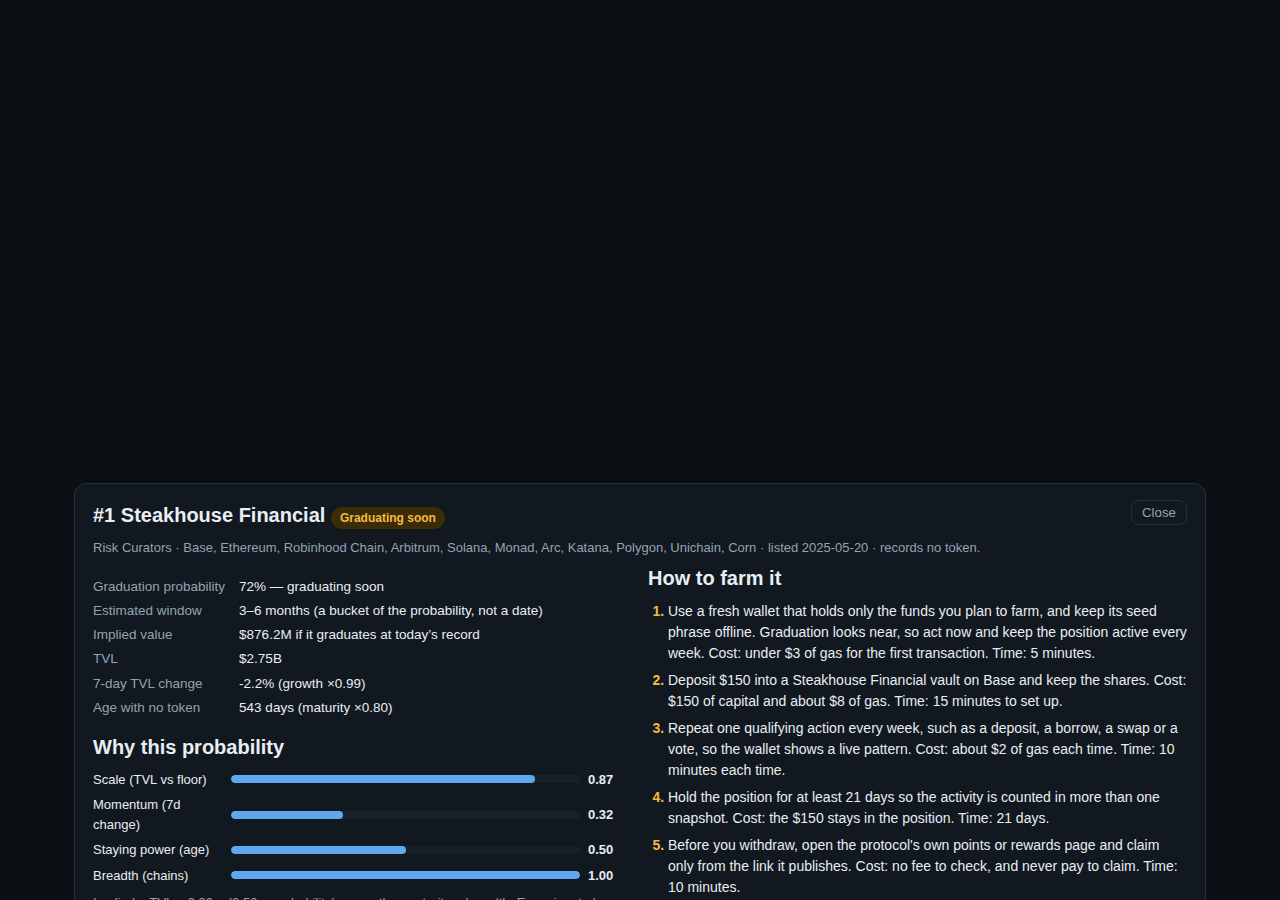
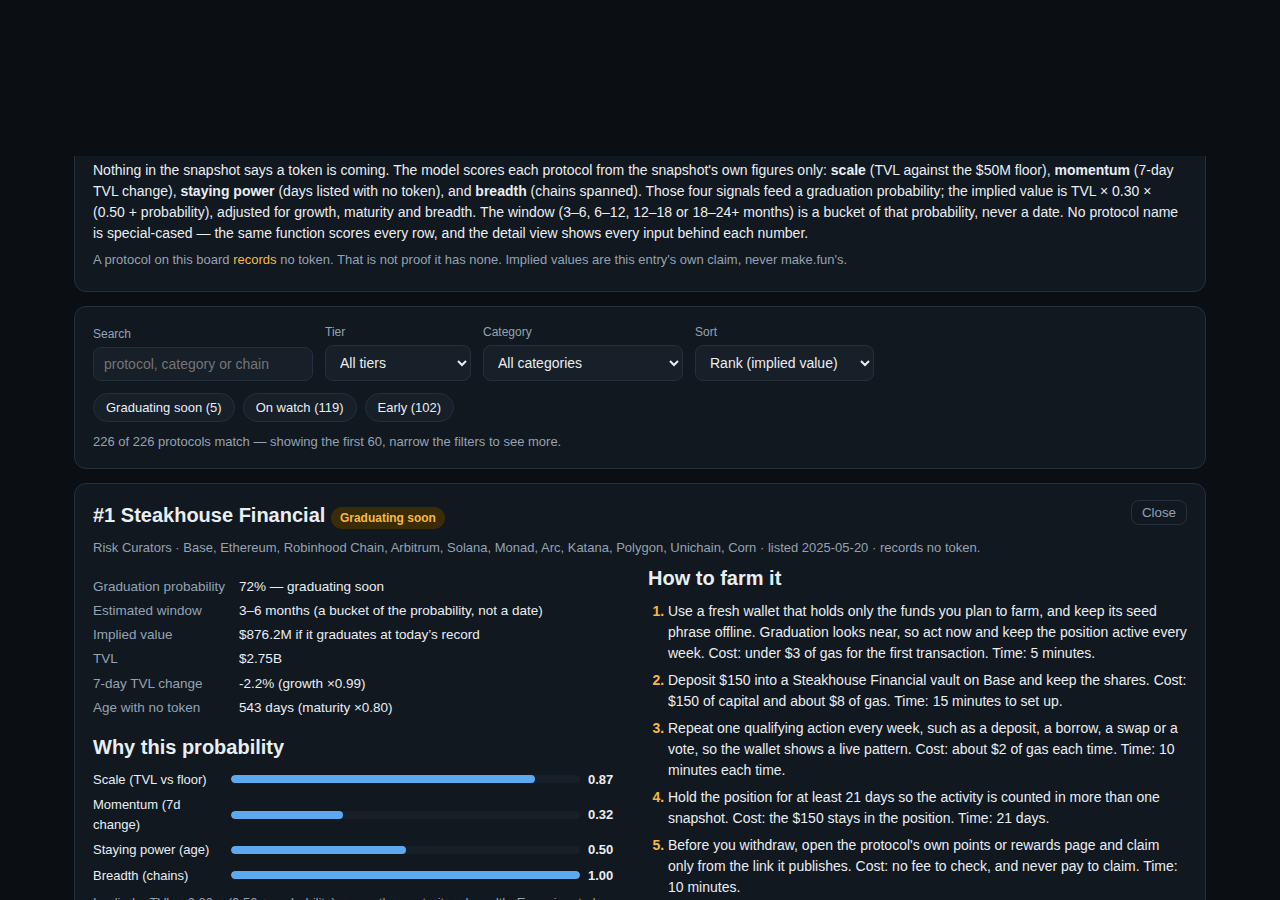
Restore detail-view scroll (nearest): headless screenshot renders cleanly

diff --git a/dashboard/app.js b/dashboard/app.js
@@ -158,7 +158,7 @@
       r.farm_steps.map(function (s) { return '<li>' + esc(s) + '</li>'; }).join('') +
       '</ol></div></div>';
     document.getElementById('closeDetail').onclick = function () { box.hidden = true; box.innerHTML = ''; };
-    box.scrollIntoView({ block: 'start' });
+    box.scrollIntoView({ block: 'nearest' });
   }
 
   // Live-token reference table.
